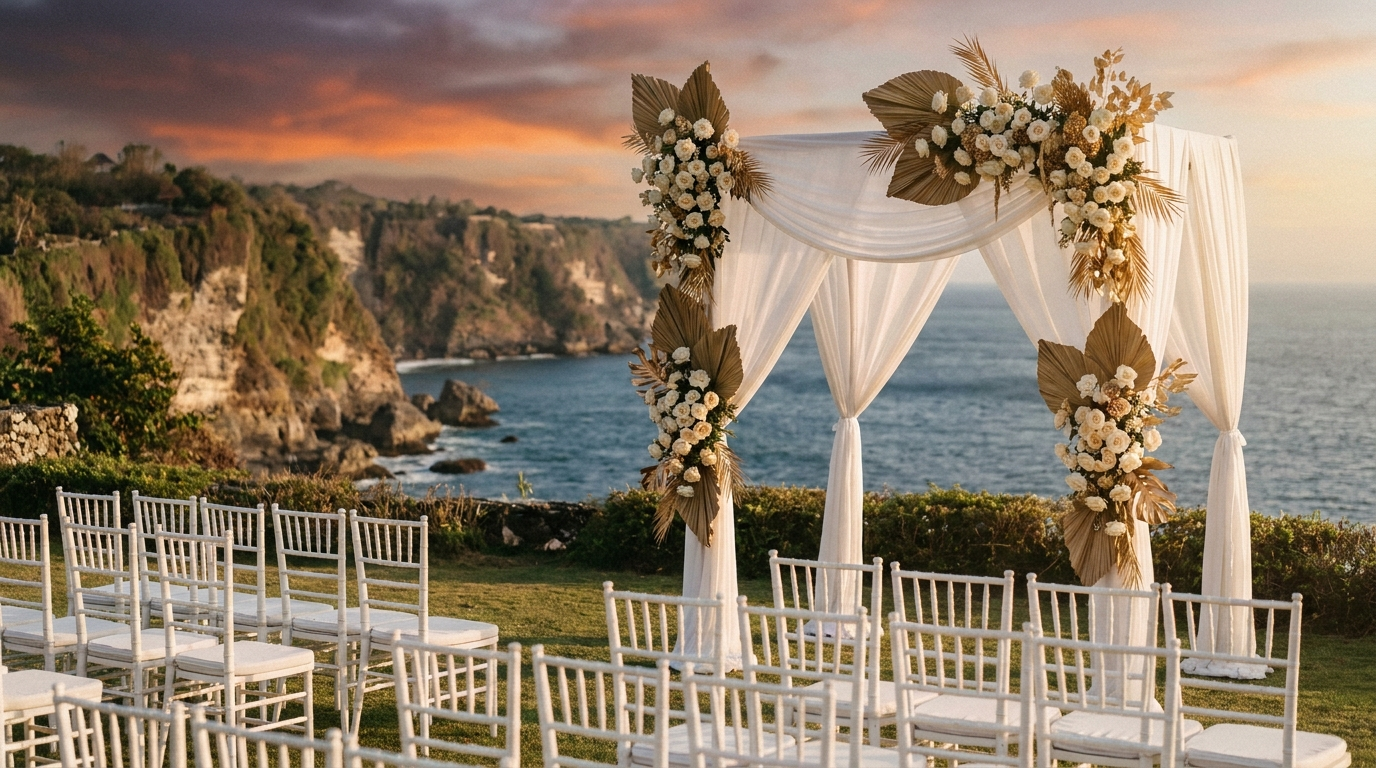
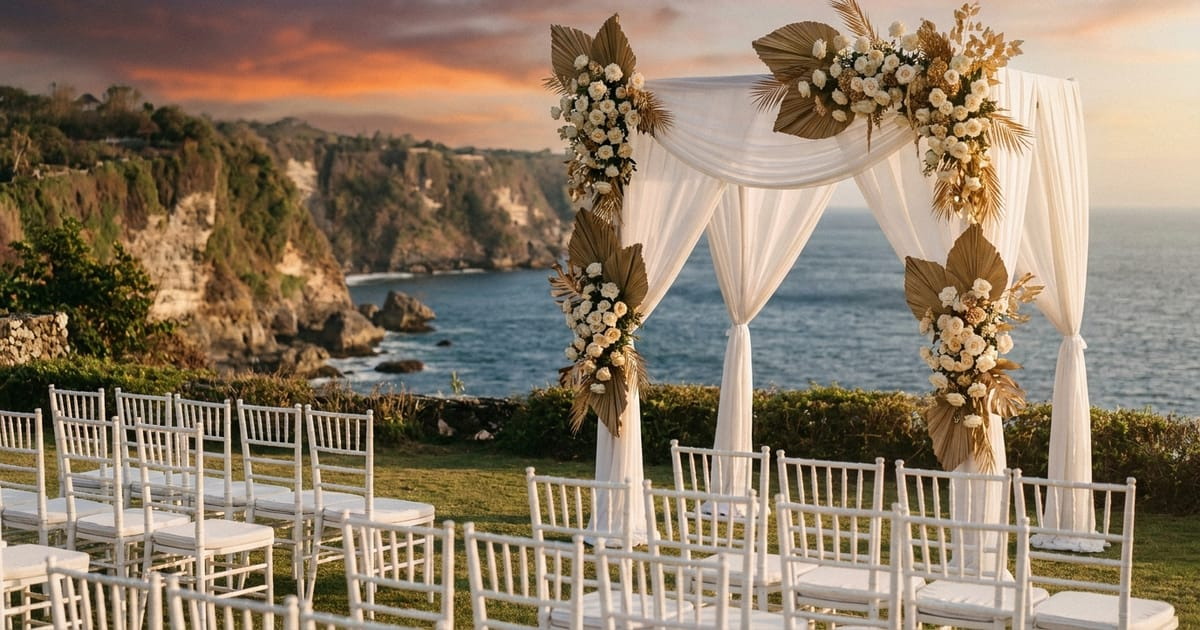
feat(seo): homepage audit fixes — hero srcset, schema cleanup, retargeted title/H1 (#39)
* feat(seo): homepage audit fixes — hero srcset, schema cleanup, retargeted title/H1

- Hero: responsive srcset (640/1024/1376w) so phones fetch ~114KB instead of the
  231KB full-width LCP slide; slides 2–6 now load after window load (they sat in
  the viewport, so loading="lazy" never deferred them) and are skipped entirely
  under prefers-reduced-motion. Brand name moved out of the H1.
- OG image og-cliffside-uluwatu.jpg recompressed to 1200x630 (964KB -> 141KB).
- JSON-LD: add WebSite node (site-name signal), merge duplicate MusicGroup +
  LocalBusiness nodes into one entity, raster PNG logo instead of favicon.svg.
- Copy: title/H1 retargeted from "Wedding Musicians for Hire in Bali" (SERP
  dominated by bands/DJs) to "Live Piano & Strings for Bali Weddings" (approved
  tagline #2); eyebrow now carries the Intimate/Timeless/Unforgettable values.
  "String quartet / wedding pianist for hire" stays owned by /packages.

* perf(hero): drop .reveal from above-the-fold hero copy

The H1 is the homepage's LCP element, and .reveal held it at opacity 0
until the IntersectionObserver fired — Lighthouse measured 1.4–1.8s of
element render delay on the live site. Hero copy now paints immediately
(render delay ~70ms locally); scroll fade-ins elsewhere are unchanged.

---------

diff --git a/src/lib/jsonld.ts b/src/lib/jsonld.ts
@@ -5,7 +5,11 @@ import type { Lang } from '../i18n/languages'
  * Article author/publisher) resolves to one brand entity instead of a new anonymous Organization
  * per page — squirrelscan `schema/entity-identity` flagged 104 un-linked occurrences 2026-09-25. */
 const organizationId = () => new URL('/#organization', site.url).toString()
-const localBusinessId = () => new URL('/#localbusiness', site.url).toString()
+const websiteId = () => new URL('/#website', site.url).toString()
+
+/** Raster logo for Organization `logo` — Google's logo guidelines want a crawlable bitmap of at
+ * least 112×112px, which the SVG favicon isn't. Resized from the press-kit charcoal PNG. */
+const logoUrl = () => new URL('/images/logo-allegra-chamber-bali.png', site.url).toString()
 
 /** Brand entity reference for Article author/publisher. MusicGroup is an Organization subtype, so
  * this shares the home page MusicGroup's `@id`. */
@@ -17,45 +21,43 @@ function organizationRef() {
 		url: new URL('/', site.url).toString(),
 		logo: {
 			'@type': 'ImageObject',
-			url: new URL('/favicon.svg', site.url).toString(),
+			url: logoUrl(),
 		},
 		sameAs: [site.instagram],
 	}
 }
 
-/** MusicGroup + LocalBusiness JSON-LD for the homepage, per CLAUDE.md §5. */
+/** WebSite + brand entity JSON-LD for the homepage, per CLAUDE.md §5. The brand is a single node
+ * typed both MusicGroup and LocalBusiness (it used to be two nodes with separate `@id`s describing
+ * the same business); WebSite `name` is what Google uses for the site name shown in results. */
 export function getHomeJsonLd(lang: Lang) {
-	const path = lang === 'en' ? '/' : '/id/'
-	const url = new URL(path, site.url).toString()
+	const homeUrl = new URL('/', site.url).toString()
 	const description =
 		lang === 'en'
 			? 'Live chamber and string ensemble performing at weddings across Bali — solo, duo, trio, string quartet, and large ensemble formations.'
 			: 'Ensemble chamber dan string live untuk pernikahan di seluruh Bali — formasi solo, duo, trio, string quartet, dan large ensemble.'
 
 	const image = new URL('/images/og-cliffside-uluwatu.jpg', site.url).toString()
-	const logo = new URL('/favicon.svg', site.url).toString()
 
 	return [
 		{
 			'@context': 'https://schema.org',
-			'@type': 'MusicGroup',
-			'@id': organizationId(),
+			'@type': 'WebSite',
+			'@id': websiteId(),
 			name: 'Allegra Chamber Bali',
-			url: new URL('/', site.url).toString(),
-			image,
-			logo,
-			genre: ['Classical', 'Chamber Music', 'Wedding Music'],
-			description,
-			sameAs: [site.instagram],
+			url: homeUrl,
+			inLanguage: ['en', 'id'],
+			publisher: { '@id': organizationId() },
 		},
 		{
 			'@context': 'https://schema.org',
-			'@type': 'LocalBusiness',
-			'@id': localBusinessId(),
+			'@type': ['MusicGroup', 'LocalBusiness'],
+			'@id': organizationId(),
 			name: 'Allegra Chamber Bali',
-			url,
+			url: homeUrl,
 			image,
-			logo,
+			logo: logoUrl(),
+			genre: ['Classical', 'Chamber Music', 'Wedding Music'],
 			description,
 			email: site.contactEmail,
 			telephone: `+${site.whatsappNumber}`,

diff --git a/src/i18n/ui.ts b/src/i18n/ui.ts
@@ -3,9 +3,11 @@
 export const ui = {
 	en: {
 		meta: {
-			title: 'Wedding Musicians for Hire in Bali — Allegra Chamber Bali',
+			// Home targets the brand + "live piano & strings" category; "string quartet / wedding
+			// pianist for hire" is owned by /packages (packages.title) — don't duplicate it here.
+			title: 'Live Piano & Strings for Bali Weddings — Allegra Chamber Bali',
 			description:
-				'Live piano and strings for Bali weddings — from an intimate cliffside ceremony to a full string quartet reception, arranged around your story.',
+				'Conservatory-trained pianist and string ensemble for Bali weddings — from an intimate Uluwatu cliffside ceremony to a full string quartet reception.',
 		},
 		nav: {
 			home: 'Home',
@@ -20,9 +22,9 @@ export const ui = {
 			checkDate: 'Check Your Date',
 		},
 		hero: {
-			eyebrow: 'Live Piano & Strings · Bali Weddings',
+			eyebrow: 'Intimate · Timeless · Unforgettable',
 			title: 'Allegra Chamber Bali',
-			titleTagline: 'Wedding Musicians for Hire in Bali',
+			titleTagline: 'Live Piano & Strings for Bali Weddings',
 			subhead:
 				'Conservatory-trained wedding musicians performing live piano and strings across Bali — from an intimate Uluwatu cliffside ceremony to a full string quartet reception, arranged around your story.',
 			ctaPrimary: 'Check Your Date',
@@ -803,7 +805,7 @@ export const ui = {
 	},
 	id: {
 		meta: {
-			title: 'Allegra Chamber Bali — Musik Live untuk Pernikahan di Bali',
+			title: 'Piano & Gesek Live untuk Pernikahan di Bali — Allegra Chamber Bali',
 			description:
 				'Piano dan gesek live untuk pernikahan di Bali — dari upacara intim di tebing Uluwatu hingga resepsi string quartet, diaransemen mengikuti cerita Anda.',
 		},
@@ -820,9 +822,9 @@ export const ui = {
 			checkDate: 'Cek Tanggal Anda',
 		},
 		hero: {
-			eyebrow: 'Piano & Gesek Live · Pernikahan Bali',
+			eyebrow: 'Intim · Abadi · Tak Terlupakan',
 			title: 'Allegra Chamber Bali',
-			titleTagline: 'Musisi Pernikahan & Kuartet Gesek',
+			titleTagline: 'Piano & Gesek Live untuk Pernikahan di Bali',
 			subhead:
 				'Musisi terlatih membawakan musik piano dan gesek secara live untuk pernikahan di seluruh Bali — dari upacara intim di tebing hingga string quartet untuk resepsi, diaransemen khusus untuk momen Anda.',
 			ctaPrimary: 'Cek Tanggal Anda',
